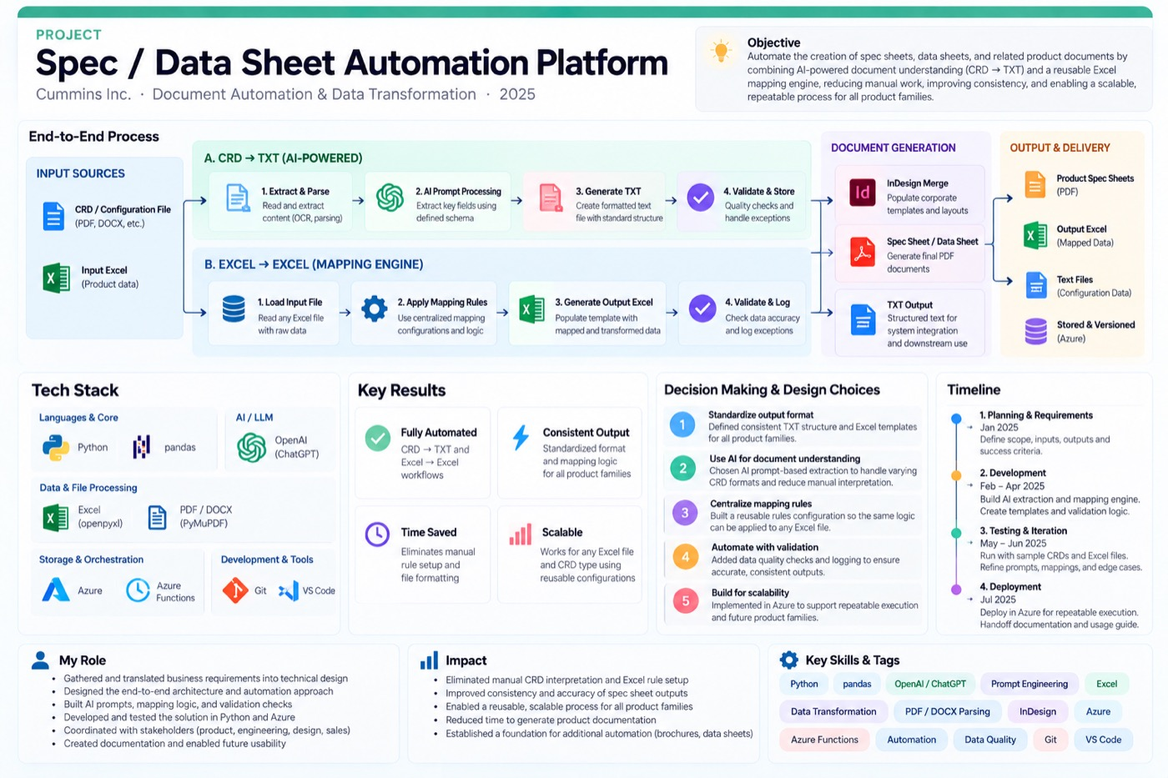
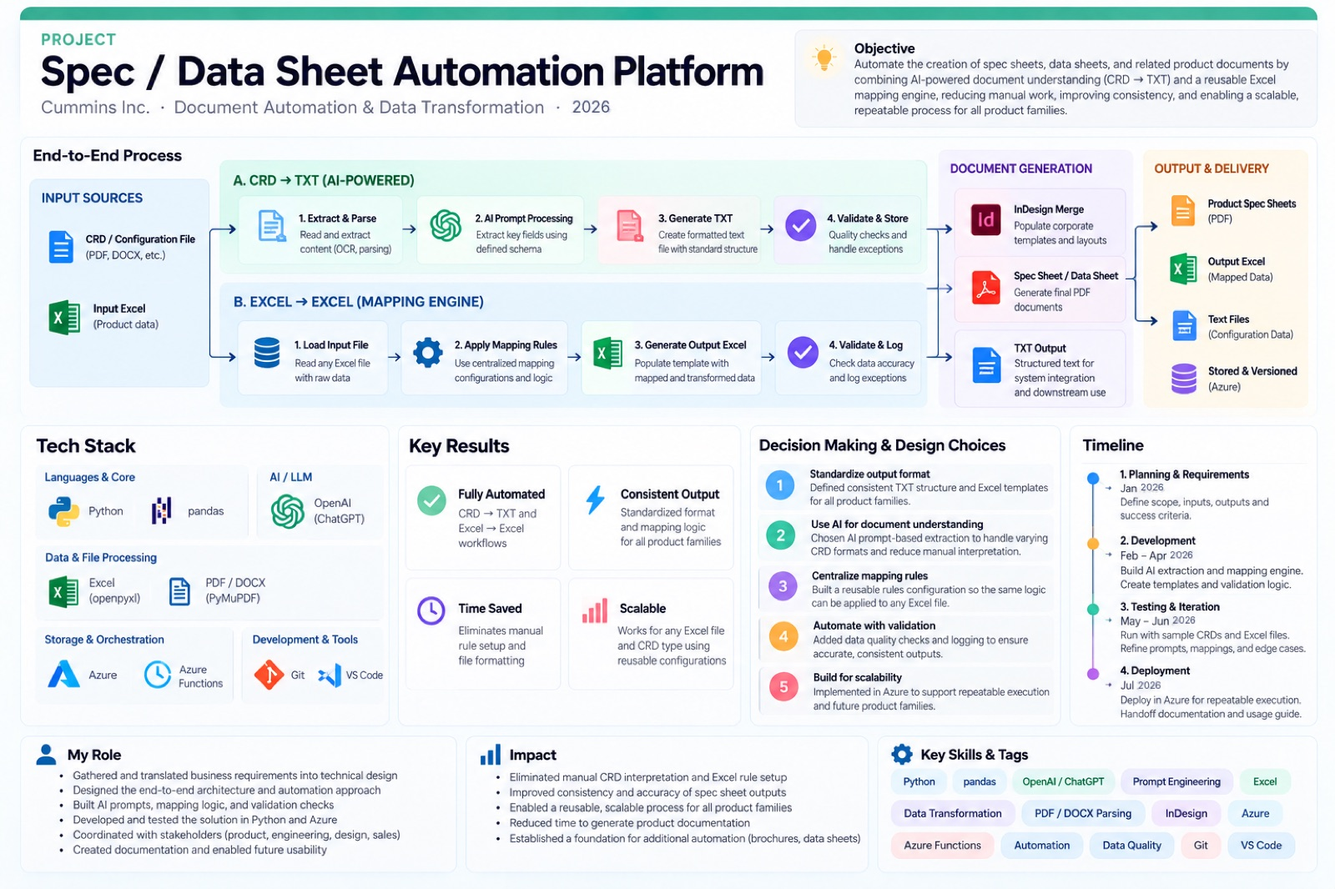
Correct timeline to 2026, fix image cropping, restore full project detail
Corrections per direct feedback:
- All 5 Cummins work projects now dated 2026 (she started there Jan
  2026); previous 2025 dates were wrong. Used the updated infographics
  (also re-dated to 2026) as the source of truth for each project's
  timeframe, including Month-view Gantt ranges.
- Fixed location: Shoreview, MN -> Minneapolis, MN throughout.
- This is confirmed to be for internal Cummins use, so project
  descriptions are now presented in full detail as authored (PowerCell,
  GDC, GenSize, SSR 2.0, GenCalc, Tiled/Seismic, WebDATA, CRD, Logik BP,
  named competitors) rather than generalized, and now use the real
  infographics for Win/Loss, Market Intelligence, and Sales Enablement
  that were previously excluded.
- Old portfolio (github.io/vercel.app) used only for what it's meant
  for: college coursework and personal/college projects, not current
  employment context, which comes from Resume-work.png.
- Added the real Purdue coursework list (11 courses) and GitHub repo
  link to the College Coursework card, and a real screenshot +
  richer description for Nocturne Marketplace, sourced from the old
  site's actual project page.
- Rewrote the About Me copy for clarity (previous version read as a
  disconnected string of ideas).

Bug fix:
- Modal images were being force-cropped into a 16:9 box via
  object-fit:cover, which badly cut off the (often portrait or
  information-dense) infographics. Switched to object-fit:contain
[…]

diff --git a/index.html b/index.html
@@ -173,8 +173,10 @@
   .chart-bars { display: flex; align-items: flex-end; gap: 8px; height: 84px; }
   .chart-bars > span { flex: 1; height: 0; border-radius: 4px 4px 0 0; transition: height 0.9s cubic-bezier(0.16, 1, 0.3, 1); }
   .chart-bars.is-in > span { height: var(--h); }
-  .case-img { width: 100%; aspect-ratio: 16/9; object-fit: cover; border-radius: 12px; display: block; transition: transform 0.4s cubic-bezier(0.16, 1, 0.3, 1), opacity 0.6s ease; }
-  .case-img:hover { transform: scale(1.02); }
+  .case-img { width: 100%; max-height: 75vh; object-fit: contain; border-radius: 12px; display: block; background: var(--surface-2); transition: transform 0.4s cubic-bezier(0.16, 1, 0.3, 1), opacity 0.6s ease; }
+  .case-img:hover { transform: scale(1.01); }
+  #modal-card.modal-wide { max-width: min(94vw, 1040px) !important; }
+  #modal-card.modal-xwide { max-width: min(96vw, 1280px) !important; }
   .reveal-img { opacity: 0; transform: translateY(14px); }
   .reveal-img.is-in { opacity: 1; transform: translateY(0); }
 
@@ -361,7 +363,7 @@
                       </div>
                       <h1 class="text-3xl md:text-5xl font-extrabold tracking-[-0.02em] leading-[1.05] mb-3" style="color: var(--ink);">Shivli Agrawal</h1>
                       <p class="text-base md:text-lg font-semibold mb-5" style="color: var(--ink);">AI Solution Engineer, Cummins Inc. — I build AI and LLM pipelines that live inside real business workflows, not just in a notebook.</p>
-                      <p class="text-sm md:text-base leading-[1.7] max-w-2xl mb-7" style="color: var(--muted);">I ask "why" one more time than most people are comfortable with, and I love a good debate about the right way to solve a problem — then I go build it, usually as an AI or LLM pipeline deployed close enough to the business to prove whether the answer actually holds.</p>
+                      <p class="text-sm md:text-base leading-[1.7] max-w-2xl mb-7" style="color: var(--muted);">I like asking "why" until the real problem surfaces, and I genuinely enjoy debating the right way to solve it. Then I build it — usually an AI or LLM pipeline — and I stay close to the business side long enough to find out whether it actually works. I'm currently looking at Forward Deployed Engineer, Technical PM, and Technical Solutions roles where that combination is the job.</p>
                       <div class="flex flex-wrap gap-3">
                         <button class="btn-pop today-goto rounded-full px-6 py-3 text-sm font-bold" data-target="today-impact" style="background: var(--cat-contact); color: #fff;">View Selected Work</button>
                         <a href="Resume-work.png" target="_blank" rel="noopener" class="btn-pop rounded-full px-6 py-3 text-sm font-bold border" style="border-color: var(--hairline); color: var(--ink);">Resume</a>
@@ -461,7 +463,7 @@
                 <span class="today-dot" style="background: var(--cat-work);"></span>
                 <div class="rounded-2xl p-6 md:p-8 border" style="background: var(--surface); border-color: var(--hairline);">
                   <p class="text-[11px] font-bold uppercase tracking-[0.12em] mb-1" style="color: var(--cat-work);">Selected Impact</p>
-                  <h2 class="text-lg md:text-xl font-extrabold tracking-[-0.01em] mb-5" style="color: var(--ink);">Win/Loss Intelligence Pipeline</h2>
+                  <h2 class="text-lg md:text-xl font-extrabold tracking-[-0.01em] mb-5" style="color: var(--ink);">Win/Loss Intelligence</h2>
                   <div class="grid md:grid-cols-2 gap-6 mb-6 items-end">
                     <div>
                       <p class="text-[11px] font-bold uppercase tracking-[0.08em] mb-2" style="color: var(--muted);">Runtime improvement, illustrative</p>
@@ -671,22 +673,22 @@
     function fmtDate(d) { return `${MONTH_NAMES[d.getMonth()]} ${d.getDate()}`; }
 
     const EVENTS = [
-      { id: 'now-cummins', day: 0, time: '9:00 AM – 5:00 PM', title: 'Now: AI Solution Engineer', subtitle: 'Cummins Inc., Power Systems Business Unit · Jan 2026 – Present · Shoreview, MN',
+      { id: 'now-cummins', day: 0, time: '9:00 AM – 5:00 PM', title: 'Now: AI Solution Engineer', subtitle: 'Cummins Inc., Power Systems Business Unit · Jan 2026 – Present · Minneapolis, MN',
         category: 'experience', year: 2026, current: true, type: 'bullets',
         bullets: [
           'Collaborate with cross-functional teams to translate business requirements into scalable analytics tools and dashboards.',
           'Implement AI/NLP workflows to analyze unstructured sales data and surface recurring problems.',
           'Produce technical documentation and user stories for enterprise data tools.',
         ], tags: ['AI/NLP', 'Analytics', 'Cross-functional'] },
-      { id: 'about', day: 0, time: '5:30 – 6:00 PM', title: 'About Me', subtitle: 'Shivli Agrawal · West Lafayette, IN',
+      { id: 'about', day: 0, time: '5:30 – 6:00 PM', title: 'About Me', subtitle: 'Shivli Agrawal · Minneapolis, MN',
         category: 'about', type: 'bullets',
         bullets: [
-          'Computer Science student at Purdue University, graduating December 2025.',
-          'AI Solution Engineer at Cummins Inc., building analytics tools and AI/NLP workflows for the Power Systems Business Unit.',
-          'I like turning messy, unstructured problems into shipped, working software — then teaching 80+ students how to do the same.',
+          'AI Solution Engineer at Cummins Inc. in Minneapolis, building AI/LLM pipelines and analytics tools for the Power Systems Business Unit — my current role and biggest highlight so far.',
+          'Computer Science graduate of Purdue University (B.S., Dec 2025).',
+          'Looking for my next move as a Forward Deployed Engineer, Technical PM, or Technical Solutions Engineer — roles where building the AI pipeline and understanding the business problem are the same job.',
         ] },
 
-      { id: 'cummins-intern', day: 1, time: '9:00 – 11:00 AM', title: 'Tech Applications Intern', subtitle: 'Cummins Inc., Power Systems Business Unit · June 2025 – Aug 2025 · Shoreview, MN',
+      { id: 'cummins-intern', day: 1, time: '9:00 – 11:00 AM', title: 'Tech Applications Intern', subtitle: 'Cummins Inc., Power Systems Business Unit · June 2025 – Aug 2025 · Minneapolis, MN',
         category: 'experience', year: 2025, type: 'bullets',
         bullets: [
           'Developed automated test frameworks in Databricks (PySpark, MLflow) to validate ETL pipelines on Salesforce CPQ data across 5,000+ opportunities.',
@@ -698,18 +700,23 @@
         category: 'about', year: 2022, type: 'bullets', image: 'assets/mainpic2.jpg',
         bullets: [
           "Dean's List: 2022 – 2023.",
-          'Coursework spanning systems programming, OOP, and data structures & algorithms.',
-          'Teaching Assistant for Object-Oriented Programming with Java across 7 terms.',
+          'Teaching Assistant for Object-Oriented Programming with Java across 7 terms — supervised lab sessions for 80+ students each term.',
+        ], tags: [
+          'CS 18000 · Problem Solving & OOP', 'CS 18200 · Foundations of CS', 'CS 24000 · Programming in C',
+          'CS 25000 · Computer Architecture', 'CS 25100 · Data Structures & Algorithms', 'CS 25200 · Systems Programming',
+          'CS 30700 · Software Engineering', 'CS 35400 · Operating Systems', 'CS 38100 · Algorithms',
+          'CS 40800 · Software Testing', 'CS 34800 · Information Systems',
         ], links: [{ label: 'Coursework on GitHub', url: 'https://github.com/shivliagrawal/CourseWork' }] },
-      { id: 'win-loss-intelligence', day: 1, time: '3:00 – 5:00 PM', title: 'Win/Loss Intelligence Pipeline', subtitle: 'Cummins Inc. · Sales analytics + NLP/LLM · Summer 2025',
-        category: 'work-project', year: 2025, type: 'bullets',
+      { id: 'win-loss-intelligence', day: 1, time: '3:00 – 5:00 PM', title: 'Win/Loss Intelligence', subtitle: 'Cummins Inc. · IT Sales & Aftermarket · Jun – Aug 2026',
+        category: 'work-project', year: 2026, type: 'bullets', wide: true, image: 'assets/winloss_infograph.jpg',
         bullets: [
-          'Built an end-to-end pipeline that turns unstructured Salesforce win/loss comments into structured, reusable analytics — surfacing why opportunities were lost and where repeat-loss patterns showed up.',
-          'Designed a Databricks/Spark pipeline to filter and deduplicate opportunity comments, generate SBERT embeddings, cluster semantic themes, and use an LLM to extract structured loss reasons.',
-          'Cut AI request volume by clustering similar comments first — roughly 200 cluster-level calls instead of one call per note.',
-          'Prototyped a module to surface accounts with high quote volume and low conversion for targeted follow-up.',
-          '55,044 closed-lost deals analyzed in the final documented run, at roughly 8 minutes of runtime and under $3 in model cost — down from an early version that took 18+ hours.',
-        ], tags: ['Databricks', 'Spark', 'SBERT', 'LLM', 'SQL', 'Salesforce', 'NLP'] },
+          'Turned unstructured Salesforce Win/Loss comments into a reusable analytics pipeline that surfaced why opportunities were lost, competitive themes, and repeat-loss account patterns.',
+          'Designed an end-to-end Databricks/Spark pipeline to filter and deduplicate Salesforce opportunity comments, generate SBERT embeddings, cluster semantic themes, and use Claude Sonnet to extract structured loss reasons.',
+          'Reduced AI request volume by clustering similar comments first, using roughly 200 cluster-level calls instead of sending every note individually.',
+          'Built analysis around loss reasons, competitor signals, comment quality, and repeat-loss accounts — Caterpillar was the top competitor showing up in loss data.',
+          'Prototyped a serial-loss account module to surface customers with high quote volume and low conversion.',
+          '55,044 closed-lost deals analyzed in the final documented run, at roughly 8 minutes of runtime and under $3 in model-token cost — down from an earlier version that took 18+ hours to run.',
+        ], tags: ['Databricks', 'Spark', 'SBERT', 'Claude Sonnet', 'SQL', 'Salesforce', 'NLP', 'LLM'] },
 
       { id: 'ta', day: 2, time: '9:00 – 10:30 AM', title: 'Undergraduate TA', subtitle: 'Purdue University, Object-Oriented Programming with Java · Aug 2022 – Dec 2025 (7 terms)',
         category: 'experience', year: 2022, type: 'bullets',
@@ -723,14 +730,16 @@
           'Led cross-cultural events and fostered a welcoming environment for international students.',
           'Enhanced global awareness and cultural exchange across campus.',
         ] },
-      { id: 'smoke-testing-suite', day: 2, time: '5:30 – 7:00 PM', title: 'AI-Driven Smoke Testing Suite', subtitle: 'Cummins Inc. · QA strategy + prompt engineering · Summer 2025',
-        category: 'work-project', year: 2025, type: 'bullets', image: 'assets/smoke_testing_infograph.jpg',
+      { id: 'smoke-testing-suite', day: 2, time: '5:30 – 7:00 PM', title: 'AI-Driven Smoke Testing Suite', subtitle: 'Cummins Inc. · QA strategy + prompt engineering · Jun – Aug 2026',
+        category: 'work-project', year: 2026, type: 'bullets', wide: true, image: 'assets/smoke_testing_infograph.jpg',
         bullets: [
-          'Designed a repeatable story → AI generation → human review → staging workflow for generating high-value smoke tests from user stories and acceptance criteria.',
-          'Developed prompt patterns using role framing, explicit output schemas, few-shot examples, and edge-case instructions to keep generated tests consistent and useful.',
-          'Added risk-based selection criteria — prioritizing high-priority stories, recent changes, and core functionality — so testers focus AI-assisted effort where it matters most.',
-          'Structured AI as an accelerator, not a replacement for QA judgment: every generated test is reviewed, corrected, and validated before entering the suite.',
-        ], tags: ['Salesforce CPQ', 'JIRA', 'Prompt Engineering', 'QA', 'ChatGPT'] },
+          'Created a reusable QA playbook for generating high-value Salesforce CPQ smoke tests from JIRA stories and acceptance criteria, with human review before execution in staging.',
+          'Designed a repeatable JIRA → AI generation → human review → qTest → staging workflow for release-specific smoke testing.',
+          'Developed prompt patterns using role framing, explicit schemas, few-shot examples, edge-case instructions, and strict output formatting.',
+          'Applied the approach to documented CPQ scenarios covering Conga quote templates, COR document generation, and multi-currency pricing.',
+          'Added risk-based selection criteria around P1 stories, recent changes, component tags, past incidents, core functionality, and integrations.',
+          'Produced a reusable training playbook that future testers can use to create and curate release-specific smoke suites — structuring AI as an accelerator, not a replacement, for QA judgment.',
+        ], tags: ['Salesforce CPQ', 'JIRA', 'qTest', 'ChatGPT', 'Conga', 'Prompt Engineering', 'QA'] },
 
       { id: 'nll-swe', day: 3, time: '10:00 AM – 12:00 PM', title: 'Software Development Intern', subtitle: 'No Limit Living LLC · June 2024 – Aug 2024 · Gary, IN',
         category: 'experience', year: 2024, type: 'bullets',
@@ -745,15 +754,17 @@
           'Designed a website supporting daily operations and integrated internal MLS tools via The Data Mine Corporate Partnership at Purdue.',
           'Built live-update analytics dashboards that improved operational efficiency.',
         ] },
-      { id: 'market-intelligence', day: 3, time: '4:00 – 6:00 PM', title: 'Market Intelligence Tool', subtitle: 'Cummins Power Systems · AI-powered competitive intelligence · Summer 2025',
-        category: 'work-project', year: 2025, type: 'bullets',
+      { id: 'market-intelligence', day: 3, time: '4:00 – 6:00 PM', title: 'Market Intelligence Tool', subtitle: 'Cummins Power Systems · Market Intelligence · Jun – Aug 2026',
+        category: 'work-project', year: 2026, type: 'bullets', wide: true, image: 'assets/market_int.jpg',
         bullets: [
-          'Built and evolved an AI-powered capability that automates the path from public competitor product data to structured, searchable, comparable product intelligence.',
-          'Partnered with Sales, Product, Engineering, and IT to translate competitive-intelligence needs into technical requirements and solution designs.',
-          'Worked across web scraping/RPA, FastAPI, Azure Blob Storage, Azure OpenAI, PostgreSQL, and a data lake to turn unstructured PDFs, HTML, and tables into structured product data.',
-          'Built schema mapping, unit normalization, deduplication, confidence scoring, and source traceability into the pipeline so extracted data could be trusted.',
-          'Supported search, filtering, and side-by-side comparison views for the resulting product data.',
-        ], tags: ['Python', 'FastAPI', 'Azure OpenAI', 'RPA', 'PostgreSQL', 'RAG', 'Prompt Engineering'] },
+          'Built and evolved an AI-powered competitor intelligence capability that automates the path from public competitor product data to structured, searchable, and comparable product intelligence inside Cummins Power Suite.',
+          'Partnered with Sales, Product, Engineering, and IT to translate competitive-intelligence needs into technical requirements, acceptance criteria, JIRA stories, and solution designs.',
+          'Designed the end-to-end flow: competitor-source discovery → automated collection → document ingestion → AI extraction → standardization/validation → centralized storage → Power Suite comparison.',
+          'Worked across Python web scraping, Power Automate Desktop / RPA, FastAPI, Azure Blob Storage, Azure OpenAI / Azure AI Foundry, PostgreSQL, Data Lake, and Power Suite / Angular.',
+          'Built schema mapping, unit normalization, deduplication, required-field validation, confidence scoring, and source traceability into the pipeline.',
+          'Supported Product Finder workflows including search, filters, product cards, detail pages, side-by-side comparison, and community notes.',
+          'Phase 1 focused on Caterpillar, with expansion planned toward Kohler, MTU, Generac, and FG Wilson.',
+        ], tags: ['Python', 'FastAPI', 'Azure OpenAI', 'AI Foundry', 'RPA', 'PostgreSQL', 'RAG/Vector Search', 'Prompt Engineering', 'System Architecture'] },
 
       { id: 'qnucleon', day: 4, time: '9:30 – 11:00 AM', title: 'Front-end Development Intern', subtitle: 'Qnucleon PTY LTD · May 2023 – Aug 2023 · Remote',
         category: 'experience', year: 2023, type: 'bullets',
@@ -768,24 +779,28 @@
           'Used BERT to extract structured data from a Harvard Medical School Adverse Drug Events dataset.',
           'Fine-tuned BioBERT with Hyperband and population-based training, lifting NER performance by 5%.',
         ], tags: ['BERT', 'BioBERT', 'NLP'] },
-      { id: 'sales-enablement', day: 4, time: '3:30 – 5:30 PM', title: 'Sales Enablement — Business Analysis & Delivery', subtitle: 'Cummins Inc. · Business analysis & delivery · Jan – Dec 2026',
-        category: 'work-project', year: 2026, type: 'bullets', startMonth: 1, endMonth: 12, image: 'assets/sales_enablement_graph.png',
+      { id: 'sales-enablement', day: 4, time: '3:30 – 5:30 PM', title: 'Sales Enablement PowerCell Support', subtitle: 'Cummins Inc. · Sales Enablement PowerCell · Jan – Dec 2026',
+        category: 'work-project', year: 2026, type: 'bullets', wide: true, startMonth: 1, endMonth: 12, image: 'assets/sales_enablement_infographic.jpg',
         bullets: [
-          'Work as the business-analysis bridge between sales-enablement stakeholders and the development team — translating business needs into functional and technical requirements.',
-          'Built a repeatable requirement → story → development feedback → sprint execution workflow, and wrote the stories that carried it.',
-          'Created and refined stories across five parallel platform initiatives spanning product sizing, site-data integration, pricing calculation, a presentation-platform migration, and market intelligence.',
-          'Took on project-management responsibilities for one initiative — tracking open items, progress, and blockers to keep work moving.',
-          'Started identifying opportunities for AI-assisted workflows within the team, including simplifying competitor-data collection and updates.',
-        ], tags: ['Business Analysis', 'Requirements Engineering', 'JIRA', 'Agile/Scrum', 'Stakeholder Management'] },
-      { id: 'spec-data-automation', day: 4, time: '5:45 – 7:00 PM', title: 'Spec / Data Sheet Automation Platform', subtitle: 'Cummins Inc. · Document automation + data engineering · 2026',
-        category: 'work-project', year: 2026, type: 'bullets', image: 'assets/specsheet_infographic.jpg',
+          'Work as the business-analysis bridge between Sales Enablement stakeholders and the development organization — understanding what the business needs and translating it into clear, actionable Jira stories for the GDC team.',
+          'Built a repeatable business requirement → technical requirement → Jira story → development feedback → sprint execution workflow.',
+          'Created and refined Jira stories across 5 named PowerCell initiatives: GenSize, SSR 2.0 / Webdata, GenCalc, Tiled / Seismic Transition, and Market Intelligence.',
+          'Took on project-management responsibilities within the Tiled / Seismic Transition, tracking open items, progress, and blockers to keep work moving.',
+          'Explored process improvements such as TOSCA testing and the potential for a PowerSuite → Data Lake → Databricks analytics path.',
+          'Began identifying opportunities for AI-assisted PowerCell workflows, including simplifying competitor-data collection and updates.',
+          '4 annual goal areas, 5 named PowerCell initiatives, and 6 core responsibilities: requirements discovery, requirements translation, cross-functional alignment, project execution, project management, and process improvement.',
+        ], tags: ['Business Analysis', 'Requirements Engineering', 'JIRA', 'Agile/Scrum', 'Stakeholder Management', 'PowerCell', 'PowerSuite', 'Databricks', 'TOSCA'] },
+      { id: 'spec-data-automation', day: 4, time: '5:45 – 7:00 PM', title: 'Spec / Data Sheet Automation Platform', subtitle: 'Cummins Inc. · Document automation + data engineering · Jan – Jul 2026',
+        category: 'work-project', year: 2026, type: 'bullets', wide: true, startMonth: 1, endMonth: 7, image: 'assets/specsheet_infographic.jpg',
         bullets: [
-          'Designed a reusable automation architecture for turning product and configuration data into standardized spec sheets, data sheets, and brochures.',
-          'Led discovery across the existing manual export → spreadsheet → design-tool → PDF process, identifying duplicated mapping logic and document-generation bottlenecks.',
-          'Defined a reusable mapping engine that stores field mappings and transformation rules in a central configuration layer instead of duplicating logic per output file.',
-          'Designed an AI-assisted document → structured data → text workflow with schema validation, confidence checks, and human review for unclear content.',
-          'Coordinated with product management, engineering, and document-design stakeholders to align the automation with both technical constraints and business requirements.',
-        ], tags: ['Python', 'pandas', 'Databricks', 'SQL', 'Excel Automation', 'ETL', 'Prompt Engineering', 'Solution Architecture'] },
+          'Designed a reusable automation architecture for converting product and configuration data from WebDATA, CRD files, and Excel workbooks into standardized Excel, TXT, CSV, spec sheet, data sheet, and brochure outputs.',
+          'Led discovery across the existing WebDATA → Excel → CSV → Adobe InDesign → PDF process, identifying manual handoffs, duplicated mapping logic, and document-generation bottlenecks.',
+          'Defined a reusable Excel-to-Excel mapping engine that stores mappings and transformation rules in a centralized configuration layer rather than embedding the same logic in every output workbook.',
+          'Designed an AI-assisted CRD → structured JSON → TXT workflow using document parsing, prompt-based extraction, schema validation, deterministic formatting, confidence checks, and human review.',
+          'Mapped product attributes and Parameter IDs from WebDATA to downstream document fields.',
+          'Evaluated integration points across WebDATA, Databricks, CPQ, Logik BP blueprint logic, Excel templates, and Adobe InDesign.',
+          'Coordinated with product management, engineering, WebDATA specialists, sales, and document-design stakeholders.',
+        ], tags: ['Python', 'pandas', 'openpyxl', 'Databricks', 'SQL', 'WebDATA', 'Excel Automation', 'ETL', 'Prompt Engineering', 'LLM', 'JSON Schema', 'Adobe InDesign', 'Solution Architecture'] },
       { id: 'skills', day: 4, time: '7:15 – 7:45 PM', title: 'Skills Review', subtitle: 'A running inventory',
         category: 'skills', type: 'skills',
         skillGroups: [
@@ -794,13 +809,15 @@
           { label: 'Platforms & Practices', items: ['Machine Learning', 'NLP', 'LLMs', 'Test Automation', 'DevOps', 'Cloudflare Workers', 'AWS', 'Azure', 'REST', 'GraphQL', 'HPC'] },
         ] },
 
-      { id: 'nocturne', day: 5, time: '10:00 AM – 12:00 PM', title: 'Build: Nocturnè Marketplace', subtitle: 'MERN · JWT · Cloudflare Workers · Feb 2025',
-        category: 'college-project', type: 'bullets',
+      { id: 'nocturne', day: 5, time: '10:00 AM – 12:00 PM', title: 'Build: Nocturnè Marketplace', subtitle: 'MERN · JWT · Cloudflare Workers · Jan 2025',
+        category: 'college-project', type: 'bullets', image: 'assets/nocturne_screenshot.jpg',
         bullets: [
-          'Built a dynamic e-commerce platform with category navigation, JWT auth, and real-time search filtering.',
-          'Optimized API latency with Cloudflare Workers; enhanced UI with CSS Grid, Flexbox, and animation.',
+          'A next-generation e-commerce aggregator inspired by platforms like Amazon and Apple, offering real-time search, category-based navigation, and a seamless shopping experience.',
+          'Instead of direct purchases, users are redirected to official brand websites, ensuring authentic transactions.',
+          'Built the frontend with React.js and Tailwind CSS, backend with Node.js and Express.js, and MongoDB for data.',
+          'Implemented WebSockets for live search suggestions and external API integrations for brand-store redirection.',
           'Integrated PostgreSQL queries into reporting modules to validate data integrity.',
-        ], tags: ['MongoDB', 'Express', 'React', 'Node.js', 'Cloudflare'],
+        ], tags: ['MongoDB', 'Express', 'React', 'Node.js', 'Tailwind CSS', 'WebSockets', 'Cloudflare'],
         links: [{ label: 'GitHub', url: 'https://github.com/shivliagrawal/Nocturne' }] },
       { id: 'sysmonitor', day: 5, time: '1:00 – 3:00 PM', title: 'Build: System Monitor', subtitle: 'C · GTK · Linux /proc · Nov 2024',
         category: 'college-project', type: 'bullets',
@@ -1020,6 +1037,8 @@
       modalCat.style.color = cat.color;
       modalTitle.textContent = e.title;
       modalSubtitle.textContent = e.subtitle;
+      modalCard.classList.toggle('modal-xwide', !!e.wide);
+      modalCard.classList.toggle('modal-wide', !!e.image && !e.wide);
 
       if (e.type === 'skills') {
         modalBody.innerHTML = e.skillGroups.map(g => `
